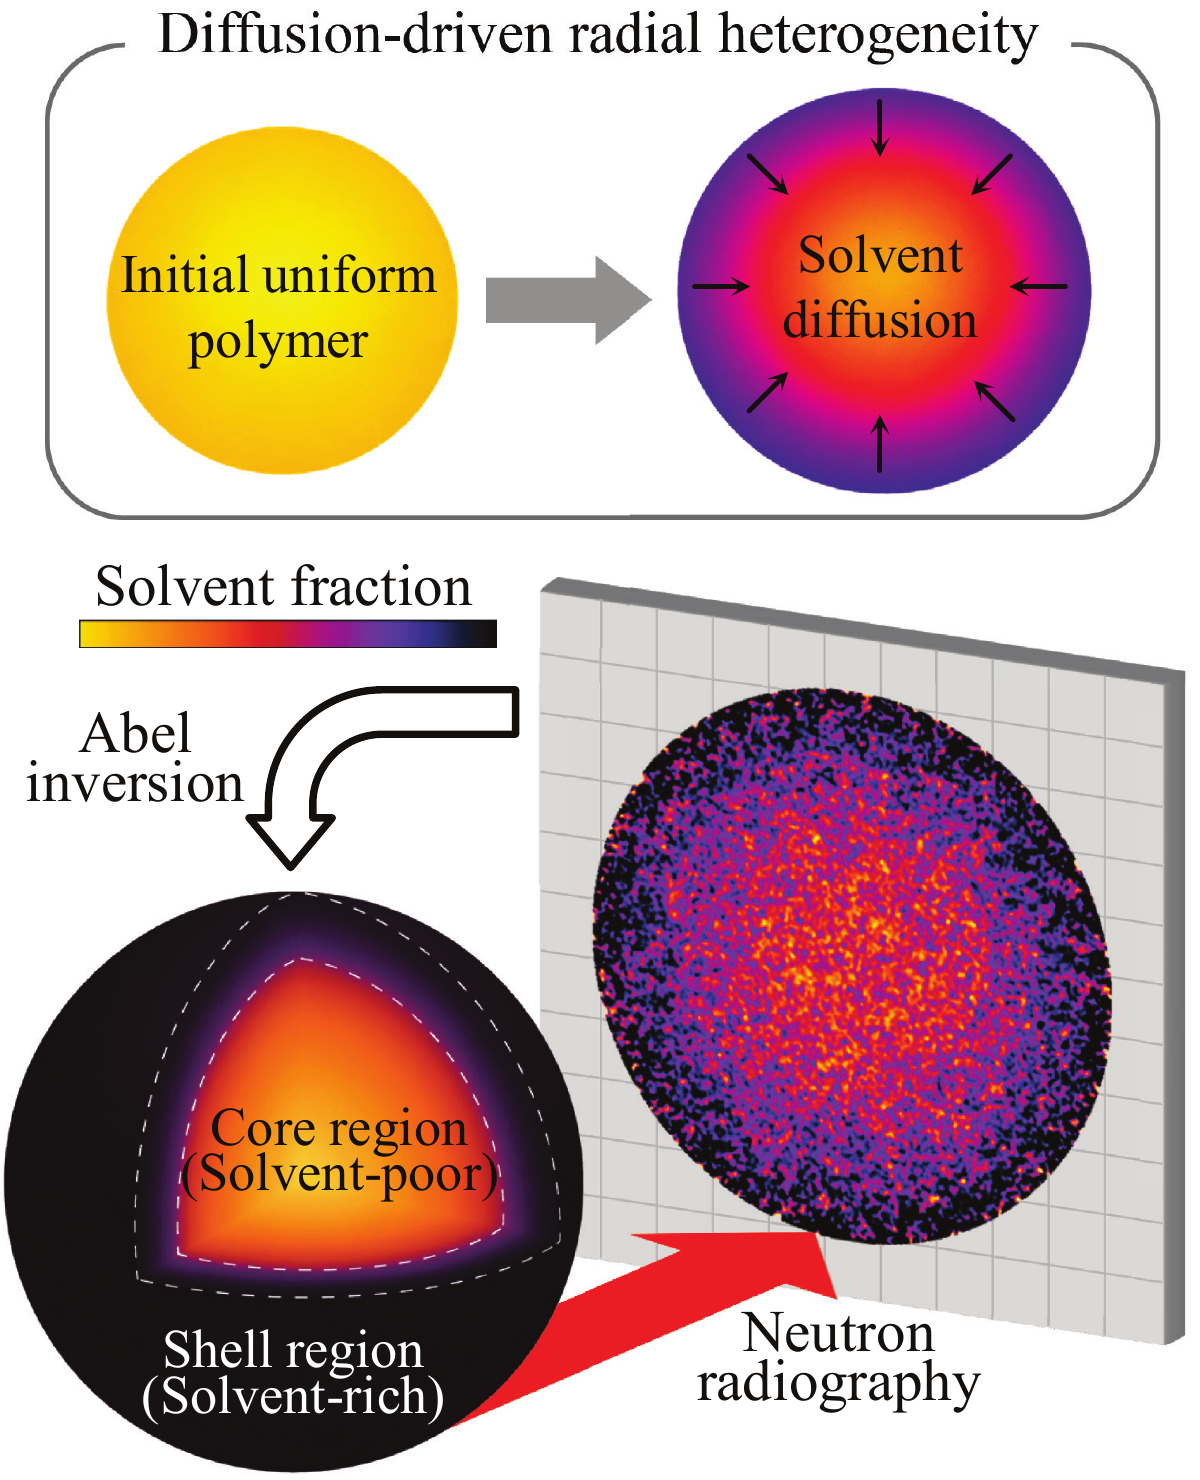
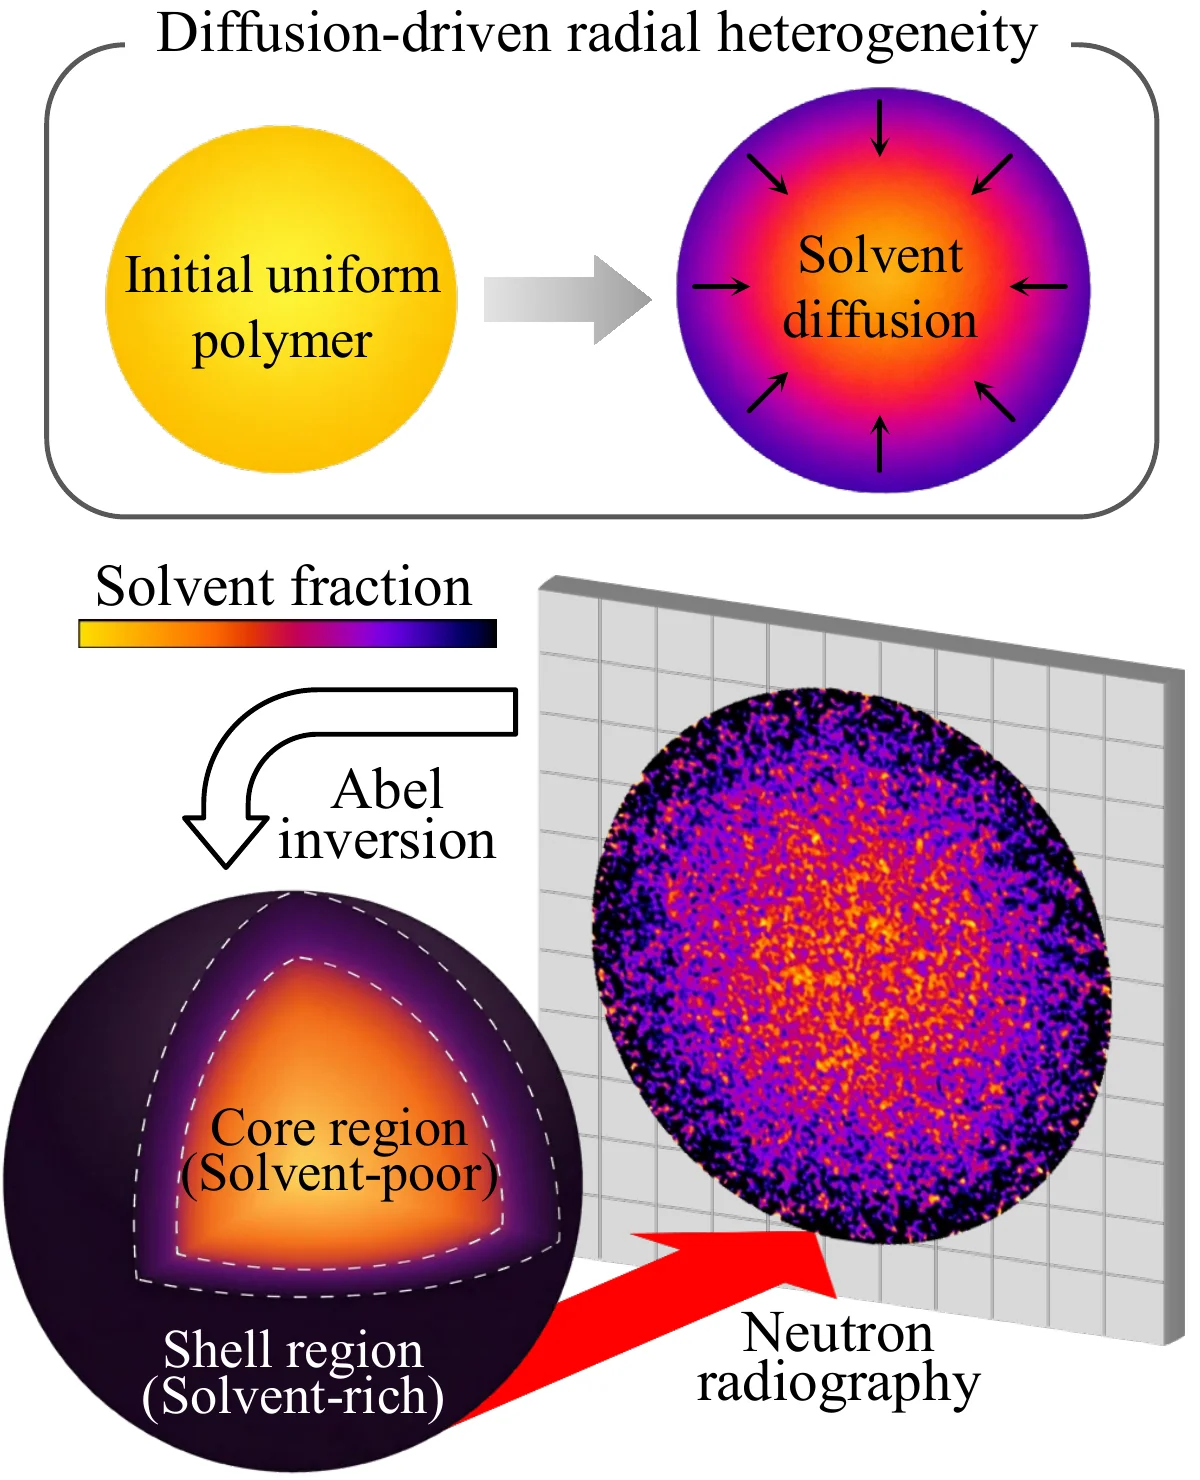
Update the polymer swelling graphical abstract from the revised figure

diff --git a/index.html b/index.html
@@ -217,7 +217,7 @@
 <div class="public-results" id="public-swelling-results">
  <figure class="public-result study-figure">
   <button class="media-trigger result-trigger" type="button" data-image-title="Polymer swelling · Neutron radiography and Abel inversion" aria-label="Enlarge Polymer swelling · Neutron radiography and Abel inversion">
-   <img src="assets/research/polymer-swelling-graphical-abstract.webp?v=920a860096fd" width="1200" height="1480" alt="Solvent diffuses into an initially uniform polymer sphere. Neutron radiography and Abel inversion show a solvent-rich outer shell and a solvent-poor core." loading="lazy" decoding="async">
+   <img src="assets/research/polymer-swelling-graphical-abstract.webp?v=8c9699e1fd5d" width="1200" height="1480" alt="Solvent diffuses into an initially uniform polymer sphere. Neutron radiography and Abel inversion show a solvent-rich outer shell and a solvent-poor core." loading="lazy" decoding="async">
   </button>
   <figcaption class="figure-caption">Neutron radiography and Abel inversion reveal a solvent-rich shell around a solvent-poor core during swelling.</figcaption>
  </figure>
